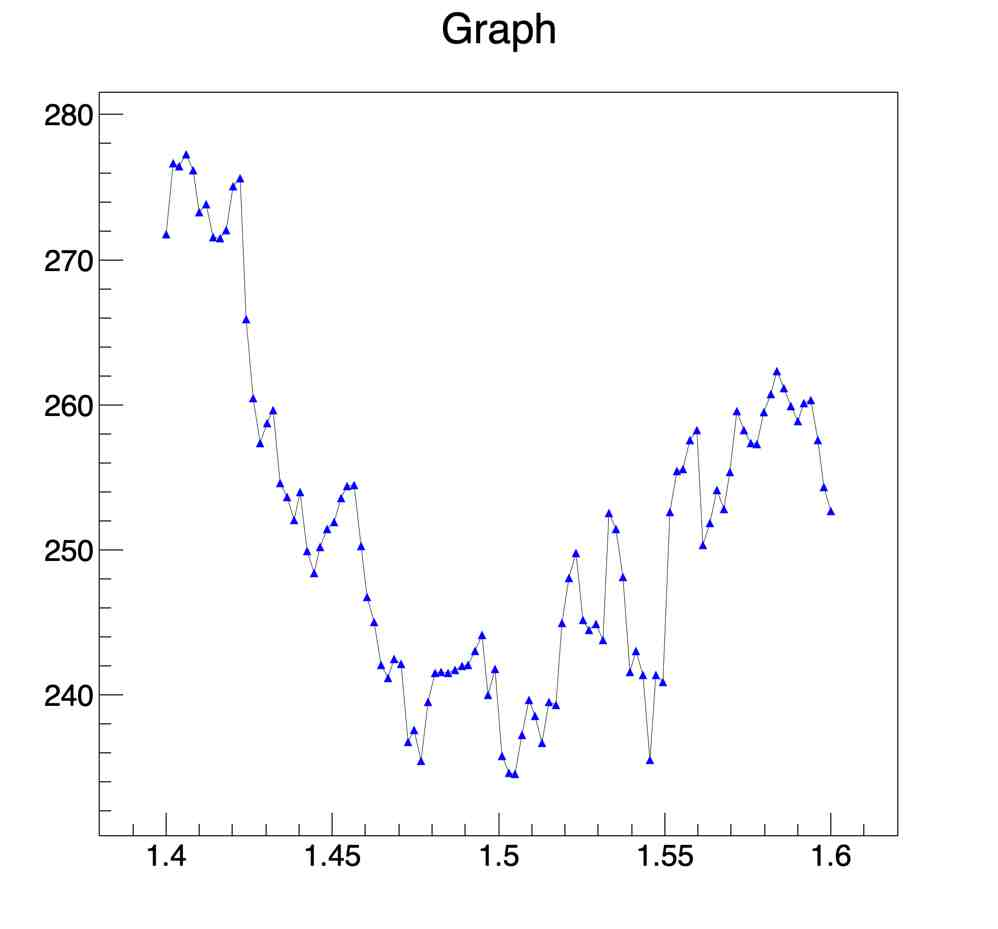
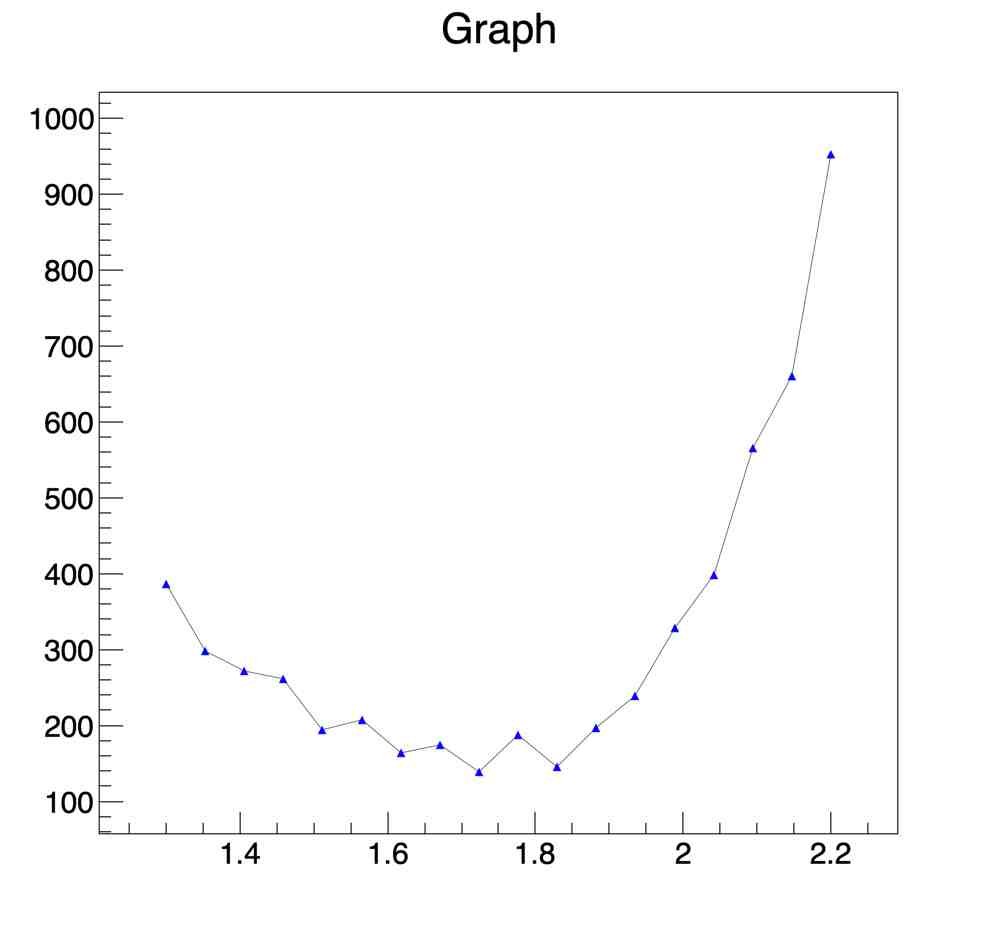
Updates to simulation method

diff --git a/luterplots.C b/luterplots.C
@@ -13,7 +13,7 @@ const Int_t bl=Ntdc-16+0;//Start at channel 0
 const Int_t br=Ntdc-16+1;
 const Int_t tl=Ntdc-16+2;
 const Int_t tr=Ntdc-16+3;
-const Double_t adjadcto=1500.0;//value to ADJust ADC TO
+const Double_t adjadcto=1400.0;//value to ADJust ADC TO
 Double_t t_fullscale = 140.0E-09; // full scale TDC range in seconds
 Double_t t_convert=t_fullscale/4096.0;
 
@@ -27,6 +27,8 @@ void luterplots(Int_t nrun, Double_t nscint=1.50) {
 
         Double_t vn = 2.997E08/nscint;
 	Double_t resolution = 0.0232*nscint*nscint-0.1061*nscint+0.1617;
+        resolution = resolution*0.934;
+        cout << "Resolution = " << resolution << endl;
         Double_t granularity = t_convert*vn/2.0;
         Double_t xpos_range = 0.30;
         Double_t dscint = 0.105; // distance between scintillators in metres
@@ -66,7 +68,7 @@ void luterplots(Int_t nrun, Double_t nscint=1.50) {
 	TH1F *hbpos = new TH1F("hbpos","Bottom Position",xposbin,-1.0*xpos_range,xpos_range); //Histogram for bottom scintillator 
 	//htheta = new TH1F("htheta","Angle (Degrees)",10*bin,-100.5,100.5); //Histogram for incidence angle
 	TH1F *htheta = new TH1F("htheta","Angle (Degrees)",nthetabins,thetalow,thetahigh); //Histogram for incidence angle
-	TH1F *hmeantime = new TH1F("hmeantime","Mean Time (ns)",100,-0.5,0.5); //Histogram for mean top/bottom time
+	TH1F *hmeantime = new TH1F("hmeantime","Mean Position (m)",100,-0.5,0.5); //Histogram for mean top/bottom time
 	TH1F *htheta2 = new TH1F("htheta2","Angle (Degrees)",nthetabins,thetalow,thetahigh); //Histogram for simulated incidence angle
 	TH1F *hadctop = new TH1F("hadctop","Top Energy Dep",bin,0,8500);
 	TH1F *hadcbot = new TH1F("hadcbot","Bottom Energy Dep",bin,0,8500);
@@ -75,13 +77,19 @@ void luterplots(Int_t nrun, Double_t nscint=1.50) {
 	TH1F *ovhadcbot = new TH1F("ovhadcbot", "Energy Deposits", bin, 0, 8500);
 
 	TH1F *hadcoverlay = new TH1F("hadcoverlay","Top vs Bottom",bin,0,3);
-    TH2F *htopLeftvXpos = new TH2F("htopLeftvXpos","corrected top left paddle ADC vs. xpos top ",100,-0.30,0.30,50,500,2500);
-    TH2F *htopRightvXpos = new TH2F("htopRightvXpos","corrected top right paddle ADC vs. xpos top ",100,-0.30,0.30,50,500,2500);
-    TH2F *hbotLeftvXpos = new TH2F("hbotLeftvXpos","corrected bottom left paddle ADC vs. xpos bottom ",100,-0.30,0.30,50,500,2500);
-    TH2F *hbotRightvXpos = new TH2F("hbotRightvXpos","corrected bottom right paddle ADC vs. xpos bottom ",100,-0.30,0.30,50,500,2500);
+    TH2F *htopLeftvXpos = new TH2F("htopLeftvXpos","corrected top left paddle ADC vs. xpos top ",100,-0.30,0.30,50,0,2500);
+    TH2F *htopRightvXpos = new TH2F("htopRightvXpos","corrected top right paddle ADC vs. xpos top ",100,-0.30,0.30,50,0,2500);
+    TH2F *hbotLeftvXpos = new TH2F("hbotLeftvXpos","corrected bottom left paddle ADC vs. xpos bottom ",100,-0.30,0.30,50,0,2500);
+    TH2F *hbotRightvXpos = new TH2F("hbotRightvXpos","corrected bottom right paddle ADC vs. xpos bottom ",100,-0.30,0.30,50,0,2500);
     TH2F *htopadctheta = new TH2F("htopadctheta","corrected top ADC vs. theta ",1000,-60.0,60.0,200,0,4500);
     TH2F *hbotadctheta = new TH2F("hbotadctheta","corrected bottom ADC vs. theta ",1000,-60.0,60.0,200,0,4500);
 
+    TH2F *httlxtop = new TH2F("httlxtop","Corrected Top Left Time vs. xtop",100,-0.30,0.30,100,1900,2100);
+    TH2F *htblxtop = new TH2F("htblxtop","Corrected Bottom Left Time vs. xtop",100,-0.30,0.30,100,1900,2100);
+    TH2F *htbrxtop = new TH2F("htbrxtop","Corrected Bottom Right Time vs. xtop",100,-0.30,0.30,100,1900,2100);
+    TH2F *httlxbot = new TH2F("httlxbot","Corrected Top Left Time vs. xbottom",100,-0.30,0.30,100,1900,2100);
+    TH2F *htblxbot = new TH2F("htblxbot","Corrected Bottom Left Time vs. xbottom",100,-0.30,0.30,100,1900,2100);
+    TH2F *htbrxbot = new TH2F("htbrxbot","Corrected Bottom Right Time vs. xbottom",100,-0.30,0.30,100,1900,2100);
 
     //cout << "Defined first set of histograms ... " << endl;
 
@@ -180,10 +188,10 @@ void luterplots(Int_t nrun, Double_t nscint=1.50) {
 				}
 			}//End TDC for loop
 
-                        Bool_t good_bl = (abs(tdc[bl]+tdccorrect[bl]-2000)<200.0);
-                        Bool_t good_br = (abs(tdc[br]+tdccorrect[br]-2000)<200.0);
-                        Bool_t good_tl = (abs(tdc[tl]+tdccorrect[tl]-2000)<200.0);
-                        Bool_t good_tr = (abs(tdc[tr]+tdccorrect[tr]-2000)<200.0);
+                        Bool_t good_bl = (abs(tdc[bl]+tdccorrect[bl]-2000)<50.0);
+                        Bool_t good_br = (abs(tdc[br]+tdccorrect[br]-2000)<50.0);
+                        Bool_t good_tl = (abs(tdc[tl]+tdccorrect[tl]-2000)<50.0);
+                        Bool_t good_tr = (abs(tdc[tr]+tdccorrect[tr]-2000)<50.0);
                         Bool_t good_event = good_bl&&good_br&&good_tl&&good_tr;
 
 		    if (good_event){
@@ -200,17 +208,35 @@ void luterplots(Int_t nrun, Double_t nscint=1.50) {
 			rnd = r.Gaus(0.0,1.5);
 			Double_t rnd_top_pos = r.Gaus(0.0,resolution);
 			Double_t rnd_bottom_pos = r.Gaus(0.0,resolution);
-			Double_t rndxt = r.Uniform(-0.10,0.10);
-			Double_t rndyt = r.Uniform(-0.15,0.15);
-			Double_t rndrt = sqrt(rndxt*rndxt+rndyt*rndyt)+rnd_top_pos;
-			Double_t rndxb = r.Uniform(-0.10,0.10);
-			Double_t rndyb = r.Uniform(-0.15,0.15);
-			Double_t rndrb = sqrt(rndxb*rndxb+rndyb*rndyb)+rnd_bottom_pos;
+                        TF1 *fphi = new TF1("fsin", "x", 0, 2*TMath::Pi());
+                        TF1 *fcos = new TF1("fcos", "cos(x)*cos(x)",-TMath::Pi()/2.0,TMath::Pi()/2.0);
+                        Double_t phisim, cossim, rndxt, rndyt, rndrt, rndrr, rndxb, rndyb;
+                        while (true) {
+                            phisim = fphi->GetRandom();
+                            cossim = fcos->GetRandom();
+                            rndxt = r.Uniform(-0.10,0.10);
+                            rndyt = r.Uniform(-0.15,0.15);
+                            rndrt = sqrt(rndxt*rndxt+rndyt*rndyt)+rnd_top_pos;
+                            rndrr = dscint*tan(cossim);
+                            rndxb = rndxt+rndrr*cos(phisim);
+                            rndyb = rndyt+rndrr*sin(phisim);
+                            if (rndxb > -0.10 && rndxb < 0.10 && rndyb > -0.15 && rndyb < 0.15) break;
+                        }
+
+			//Double_t rndxb = r.Uniform(-0.10,0.10);
+			//Double_t rndyb = r.Uniform(-0.15,0.15);
+                        Double_t rndrb = sqrt(rndxb*rndxb+rndyb*rndyb)+rnd_bottom_pos;
 			Double_t theta = rtod*atan((xbottom-xtop)/dscint)+rnd;
-			Double_t theta2 = rtod*atan((rndrb-rndrt)/dscint);
+                        Double_t theta2 = 0.8281-rtod*atan((rndrt-rndrb)/dscint);
 
 			if(xtop > -0.4 && xtop < 0.4 && xbottom > -0.4 && xbottom < 0.4) {
-				htpos->Fill(xtop);
+			        httlxtop->Fill(xtop,ttl);
+			        htblxtop->Fill(xtop,tbl);
+			        htbrxtop->Fill(xtop,tbr);
+			        httlxbot->Fill(xbottom,ttl);
+			        htblxbot->Fill(xbottom,tbl);
+			        htbrxbot->Fill(xbottom,tbr);
+                                htpos->Fill(xtop);
 				hbpos->Fill(xbottom);
 		    		if(abs(theta)<=85.0) htheta->Fill(theta);
 		    		if(abs(theta2)<=85.0) htheta2->Fill(theta2);
@@ -311,7 +337,7 @@ void luterplots(Int_t nrun, Double_t nscint=1.50) {
 	htheta2->SetLineColor(kRed);
 	htheta2->Draw("SAME");
 	tdcpos->cd(4);
-	htheta2->Draw();
+	htheta->Draw();
 
         for (unsigned int jj = 0; jj < htheta->GetNbinsX();jj++) {
             htheta->SetBinError(jj,sqrt(htheta->GetBinContent(jj)));
@@ -359,4 +385,19 @@ void luterplots(Int_t nrun, Double_t nscint=1.50) {
 
 	adcoverlay->cd(2);
 	hadcoverlay->Draw();
+	
+        TCanvas *tdcposcorr = new TCanvas("tdcposcorr","Top and Bottom Times vs. X Positions",300,300,600,600);
+	tdcposcorr->Divide(2,3);
+	tdcposcorr->cd(1);
+	httlxtop->Draw("COLZ");
+	tdcposcorr->cd(2);
+	httlxbot->Draw("COLZ");
+	tdcposcorr->cd(3);
+	htblxtop->Draw("COLZ");
+	tdcposcorr->cd(4);
+	htblxbot->Draw("COLZ");
+	tdcposcorr->cd(5);
+	htbrxtop->Draw("COLZ");
+	tdcposcorr->cd(6);
+	htbrxbot->Draw("COLZ");
 }

diff --git a/luterplotsloop.C b/luterplotsloop.C
@@ -25,15 +25,16 @@ const Double_t thetahigh = 100.5;
 
 void luterplotsloop(Int_t nrun) {
 
-	const Int_t npoints = 100;
+	const Int_t npoints = 18;
 	Double_t chi2array[npoints];
 	Double_t nscintarray[npoints];
 
 	for (Int_t kkk = 0; kkk < npoints; kkk++){
-        Double_t nscint = 1.40+kkk*0.20/(npoints-1);
+        Double_t nscint = 1.30+kkk*0.90/(npoints-1);
 	nscintarray[kkk]=nscint;
         Double_t vn = 2.997E08/nscint;
 	Double_t resolution = 0.0232*nscint*nscint-0.1061*nscint+0.1617;
+        resolution = resolution*0.934;
         Double_t granularity = t_convert*vn/2.0;
         Double_t xpos_range = 0.30;
         Double_t dscint = 0.105; // distance between scintillators in metres
@@ -187,10 +188,10 @@ void luterplotsloop(Int_t nrun) {
 				}
 			}//End TDC for loop
 
-                        Bool_t good_bl = (abs(tdc[bl]+tdccorrect[bl]-2000)<200.0);
-                        Bool_t good_br = (abs(tdc[br]+tdccorrect[br]-2000)<200.0);
-                        Bool_t good_tl = (abs(tdc[tl]+tdccorrect[tl]-2000)<200.0);
-                        Bool_t good_tr = (abs(tdc[tr]+tdccorrect[tr]-2000)<200.0);
+                        Bool_t good_bl = (abs(tdc[bl]+tdccorrect[bl]-2000)<50.0);
+                        Bool_t good_br = (abs(tdc[br]+tdccorrect[br]-2000)<50.0);
+                        Bool_t good_tl = (abs(tdc[tl]+tdccorrect[tl]-2000)<50.0);
+                        Bool_t good_tr = (abs(tdc[tr]+tdccorrect[tr]-2000)<50.0);
                         Bool_t good_event = good_bl&&good_br&&good_tl&&good_tr;
 
 		    if (good_event){
@@ -207,11 +208,23 @@ void luterplotsloop(Int_t nrun) {
 			rnd = r.Gaus(0.0,1.5);
 			Double_t rnd_top_pos = r.Gaus(0.0,resolution);
 			Double_t rnd_bottom_pos = r.Gaus(0.0,resolution);
-			Double_t rndxt = r.Uniform(-0.10,0.10);
-			Double_t rndyt = r.Uniform(-0.15,0.15);
-			Double_t rndrt = sqrt(rndxt*rndxt+rndyt*rndyt)+rnd_top_pos;
-			Double_t rndxb = r.Uniform(-0.10,0.10);
-			Double_t rndyb = r.Uniform(-0.15,0.15);
+                        TF1 *fphi = new TF1("fsin", "x", 0, 2*TMath::Pi());
+                        TF1 *fcos = new TF1("fcos", "cos(x)*cos(x)",-TMath::Pi()/2.0,TMath::Pi()/2.0);
+                        Double_t phisim, cossim, rndxt, rndyt, rndrt, rndrr, rndxb, rndyb;
+                        while (true) {
+                            phisim = fphi->GetRandom();
+                            cossim = fcos->GetRandom();
+                            rndxt = r.Uniform(-0.10,0.10);
+                            rndyt = r.Uniform(-0.15,0.15);
+                            rndrt = sqrt(rndxt*rndxt+rndyt*rndyt)+rnd_top_pos;
+                            rndrr = dscint*tan(cossim);
+                            rndxb = rndxt+rndrr*cos(phisim);
+                            rndyb = rndyt+rndrr*sin(phisim);
+                            if (rndxb > -0.10 && rndxb < 0.10 && rndyb > -0.15 && rndyb < 0.15) break;
+                        }
+
+			//Double_t rndxb = r.Uniform(-0.10,0.10);
+			//Double_t rndyb = r.Uniform(-0.15,0.15);
 			Double_t rndrb = sqrt(rndxb*rndxb+rndyb*rndyb)+rnd_bottom_pos;
 			Double_t theta = rtod*atan((xbottom-xtop)/dscint)+rnd;
 			Double_t theta2 = rtod*atan((rndrb-rndrt)/dscint);
